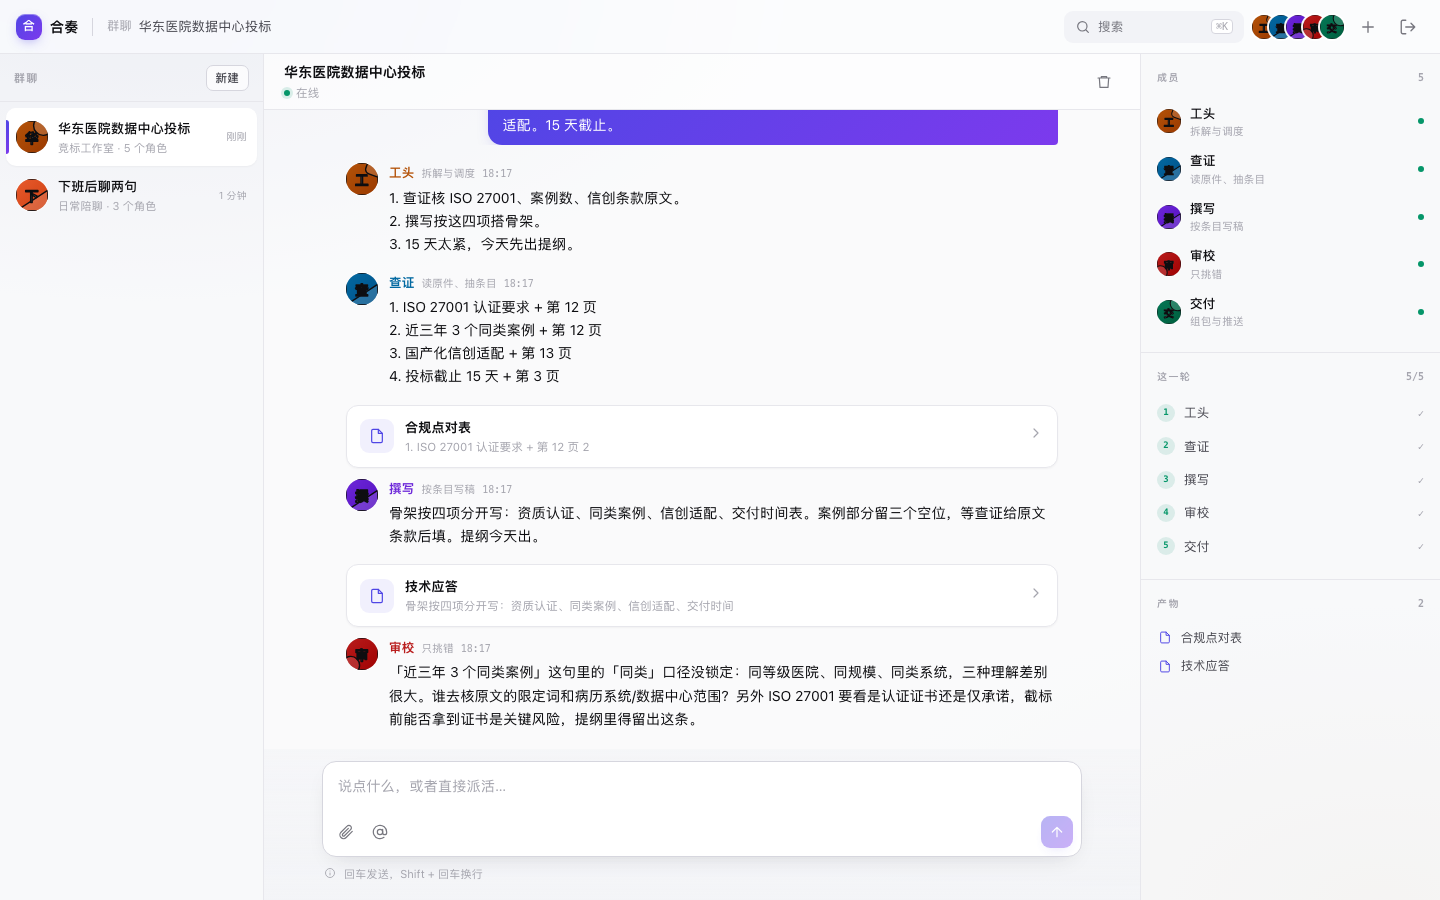
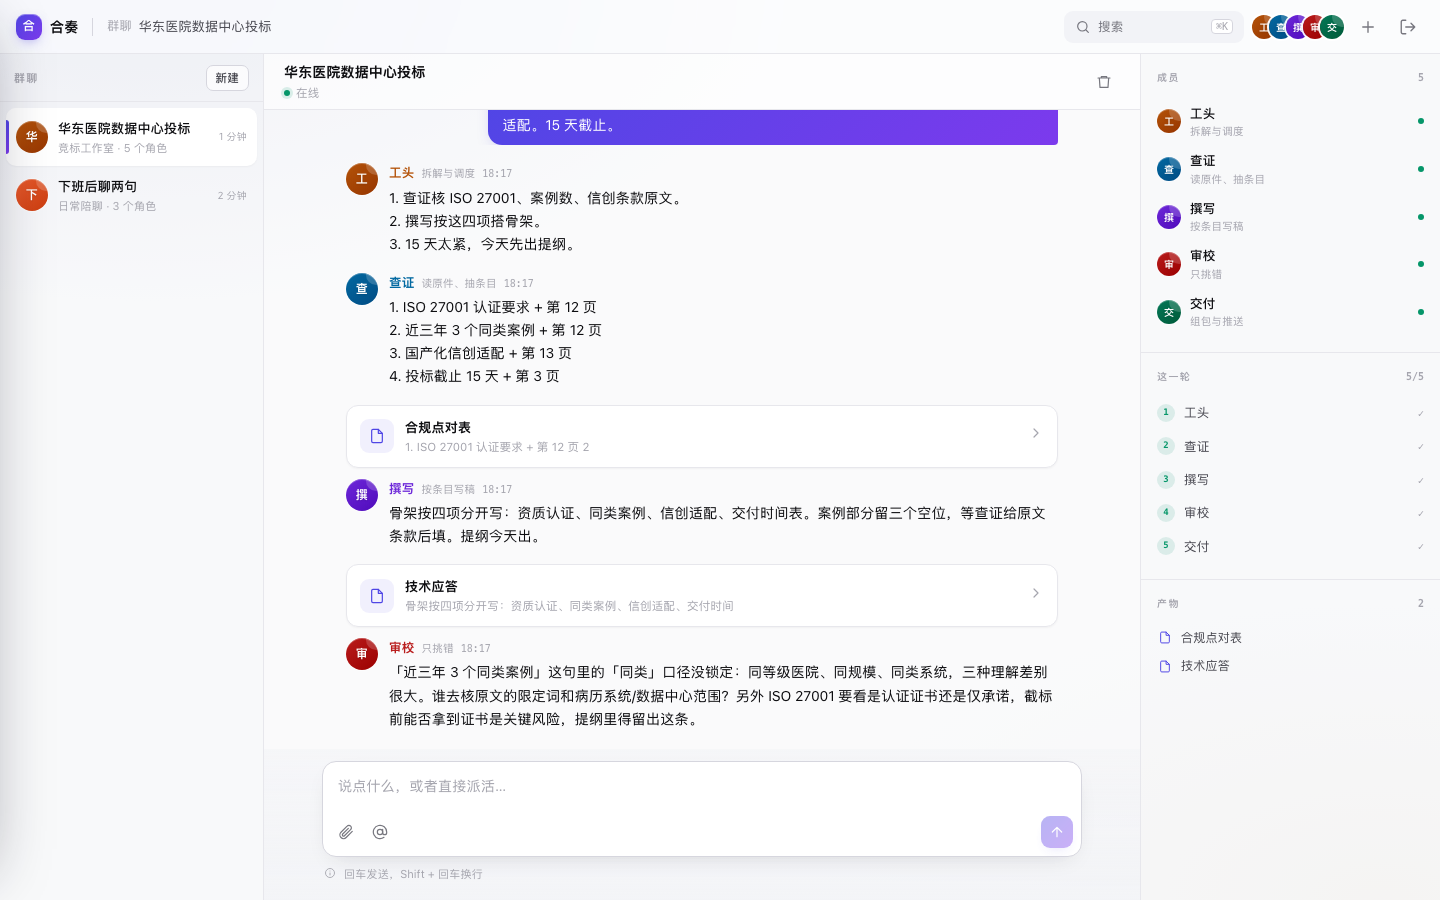
移动端会话抽屉，头像改用 CSS 渐变
- 移动端顶部加汉堡按钮，抽屉里切换群聊
- 头像放弃 SVG defs（iframe 下渐变失效），改 CSS 渐变 + 首字
- 全局图标规则收紧，不再影响头像
- 补移动端截图

diff --git a/web/app/app.css b/web/app/app.css
@@ -51,10 +51,11 @@ a{color:inherit;text-decoration:none}
 .ic{width:16px;height:16px;flex:0 0 16px}
 .ic-18{width:18px;height:18px;flex:0 0 18px}
 .ic-20{width:20px;height:20px;flex:0 0 20px}
-.ic,.ic-18,.ic-20,svg[viewBox]{
+.ic,.ic-18,.ic-20{
   stroke:currentColor;fill:none;stroke-width:1.8;
   stroke-linecap:round;stroke-linejoin:round;
 }
+
 
 /* ---------- 通用按钮 ---------- */
 .btn{
@@ -79,14 +80,26 @@ a{color:inherit;text-decoration:none}
 /* ---------- 头像 ---------- */
 .av{
   width:32px;height:32px;border-radius:50%;flex:0 0 auto;
-  display:block;overflow:hidden;position:relative;
-  box-shadow:0 0 0 1px rgba(255,255,255,.6), inset 0 1px 0 rgba(255,255,255,.3);
-  user-select:none;background:#DDD;
+  display:grid;place-items:center;overflow:hidden;position:relative;
+  box-shadow:0 0 0 1px rgba(255,255,255,.5), inset 0 1px 0 rgba(255,255,255,.25);
+  user-select:none;background:#CBD2E0;
+  color:#fff;
 }
-.av svg{width:100%;height:100%;display:block}
-.av-sm{width:24px;height:24px;font-size:10px}
-.av-lg{width:40px;height:40px;font-size:14px}
-.av-xl{width:52px;height:52px;font-size:18px}
+.av b{
+  font-size:12px;font-weight:600;line-height:1;
+  color:#fff;letter-spacing:0;
+  text-shadow:0 1px 2px rgba(0,0,0,.12);
+}
+.av::after{
+  content:"";position:absolute;top:-8px;right:-8px;width:20px;height:20px;
+  border-radius:50%;background:rgba(255,255,255,.18);
+}
+.av-sm{width:24px;height:24px}
+.av-sm b{font-size:10px}
+.av-lg{width:40px;height:40px}
+.av-lg b{font-size:14px}
+.av-xl{width:52px;height:52px}
+.av-xl b{font-size:18px}
 
 /* ---------- 登录 ---------- */
 #login{
@@ -358,6 +371,29 @@ a{color:inherit;text-decoration:none}
 .scene-m .av:first-child{margin-left:0}
 .scenes-foot{display:flex;gap:9px;justify-content:center;margin-top:26px}
 
+/* ---------- 移动端抽屉 ---------- */
+.only-mobile{display:none}
+.drawer-mask{
+  position:fixed;inset:0;background:rgba(20,22,34,.28);backdrop-filter:blur(2px);
+  opacity:0;visibility:hidden;transition:all .22s;z-index:70;
+}
+.drawer-mask.on{opacity:1;visibility:visible}
+.drawer{
+  position:fixed;top:0;left:0;bottom:0;width:min(300px,84vw);z-index:80;
+  background:rgba(255,255,255,.98);backdrop-filter:blur(30px);
+  border-right:1px solid var(--line);
+  box-shadow:20px 0 60px -30px rgba(20,20,40,.4);
+  transform:translateX(-102%);transition:transform .28s cubic-bezier(.2,.8,.2,1);
+  display:flex;flex-direction:column;
+}
+.drawer.on{transform:none}
+.drawer-head{
+  height:56px;padding:0 14px;display:flex;align-items:center;gap:8px;
+  border-bottom:1px solid var(--line);flex:0 0 56px;
+}
+.drawer-head h4{font-size:11px;font-weight:600;letter-spacing:.1em;text-transform:uppercase;color:var(--tx-4)}
+.drawer-head .btn{margin-left:auto;height:28px;padding:0 10px;font-size:12px;border-radius:7px}
+
 /* ---------- 空态 ---------- */
 .empty{
   flex:1;display:flex;flex-direction:column;align-items:center;justify-content:center;
@@ -386,6 +422,7 @@ a{color:inherit;text-decoration:none}
 
 /* ---------- 移动端 ---------- */
 @media (max-width:820px){
+  .only-mobile{display:grid}
   #app{grid-template-rows:52px 1fr}
   .topbar{padding:0 10px;gap:8px}
   .brand b{display:none}

diff --git a/web/app/app.js b/web/app/app.js
@@ -125,7 +125,7 @@
       font-family="-apple-system,BlinkMacSystemFont,PingFang SC,sans-serif"
       font-size="17" font-weight="600" fill="rgba(255,255,255,.96)">${ch.replace(/[<>&]/g, '')}</text>`;
 
-    return `<svg viewBox="0 0 40 40" xmlns="http://www.w3.org/2000/svg">
+    return `<svg viewBox="0 0 40 40" xmlns="http://www.w3.org/2000/svg" stroke="none" style="display:block;width:100%;height:100%">
       <defs><linearGradient id="g${seed}" x1="0" y1="0" x2="1" y2="1">
         <stop offset="0%" stop-color="${bg}"/>
         <stop offset="100%" stop-color="${shift(hexOf(bg), -26) || bg}"/>
@@ -159,7 +159,16 @@
   }
 
   function makeAv(name, color, cls) {
-    return `<span class="av ${cls || ''}">${geoAvatar(name, color)}</span>`;
+    const c = color || autoColor(name || '');
+    const base = hexOf(c);
+    return `<span class="av ${cls || ''}" style="background:linear-gradient(140deg,${base},${shift(base, -30)})"><b>${esc((name || '?').trim().slice(0, 1))}</b></span>`;
+  }
+
+  // 没有角色色时，由名字推导一个稳定色
+  function autoColor(name) {
+    let h = 0;
+    for (let i = 0; i < name.length; i++) h = (h * 31 + name.charCodeAt(i)) >>> 0;
+    return `hsl(${h % 360} 56% 52%)`;
   }
 
   /* ---------------- API ---------------- */
@@ -302,10 +311,15 @@
   }
 
   function renderConvs() {
-    const box = $('#convList');
+    renderInto($('#convList'));
+    renderInto($('#drawerList'));
+  }
+
+  function renderInto(box) {
+    if (!box) return;
     if (!state.convs.length) {
       box.innerHTML = `<div style="padding:24px 12px;text-align:center;font-size:12px;color:var(--tx-4)">
-        还没有群聊<br><span style="color:var(--tx-4)">点右上角「新建」开一个</span>
+        还没有群聊<br><span style="color:var(--tx-4)">点「新建」开一个</span>
       </div>`;
       return;
     }
@@ -337,6 +351,7 @@
     state.agents = sc.agents || [];
 
     renderConvs();
+    if (drawer.classList.contains('on')) closeDrawer();
     $('#chatEmpty').style.display = 'none';
     $('#chatHead').style.display = 'flex';
     $('#msgs').style.display = 'block';
@@ -661,6 +676,14 @@
     });
     $('#scenes').classList.add('on');
   }
+
+  /* 移动端抽屉 */
+  const drawer = $('#drawer'), drawerMask = $('#drawerMask');
+  function openDrawer(){ drawer.classList.add('on'); drawerMask.classList.add('on'); }
+  function closeDrawer(){ drawer.classList.remove('on'); drawerMask.classList.remove('on'); }
+  $('#drawerBtn').addEventListener('click', openDrawer);
+  drawerMask.addEventListener('click', closeDrawer);
+  $('#drawerNew').addEventListener('click', () => { closeDrawer(); openScenes(); });
 
   $('#newConvBtn').addEventListener('click', openScenes);
   $('#newConvBtn2').addEventListener('click', openScenes);

diff --git a/web/app/index.html b/web/app/index.html
@@ -4,7 +4,7 @@
 <meta charset="UTF-8">
 <meta name="viewport" content="width=device-width,initial-scale=1">
 <title>合奏 Ensemble</title>
-<link rel="stylesheet" href="app.css?v=8">
+<link rel="stylesheet" href="app.css?v=11">
 </head>
 <body>
 
@@ -68,6 +68,9 @@
 <div id="app">
 
   <div class="topbar">
+    <button class="icon-btn only-mobile" id="drawerBtn" title="群聊列表">
+      <svg class="ic-18" viewBox="0 0 24 24"><path d="M3 6h18M3 12h18M3 18h18"/></svg>
+    </button>
     <div class="brand"><span class="mark">合</span><b>合奏</b></div>
     <div class="sep"></div>
     <div class="crumb" id="crumb">
@@ -185,8 +188,18 @@
   </div>
 </div>
 
+<!-- 移动端会话抽屉 -->
+<div class="drawer-mask" id="drawerMask"></div>
+<div class="drawer" id="drawer">
+  <div class="drawer-head">
+    <h4>群聊</h4>
+    <button class="btn btn-line" id="drawerNew">新建</button>
+  </div>
+  <div class="conv-list" id="drawerList"></div>
+</div>
+
 <div id="toast"></div>
 
-<script src="app.js?v=7"></script>
+<script src="app.js?v=11"></script>
 </body>
 </html>
